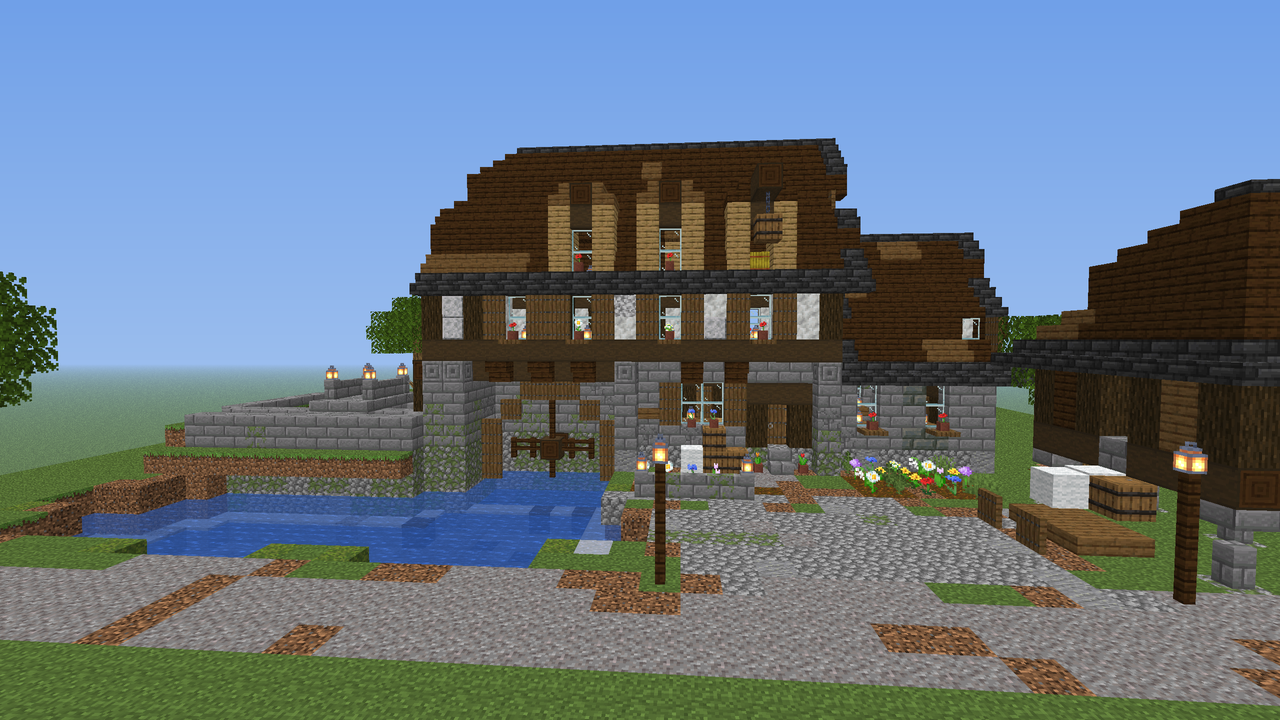
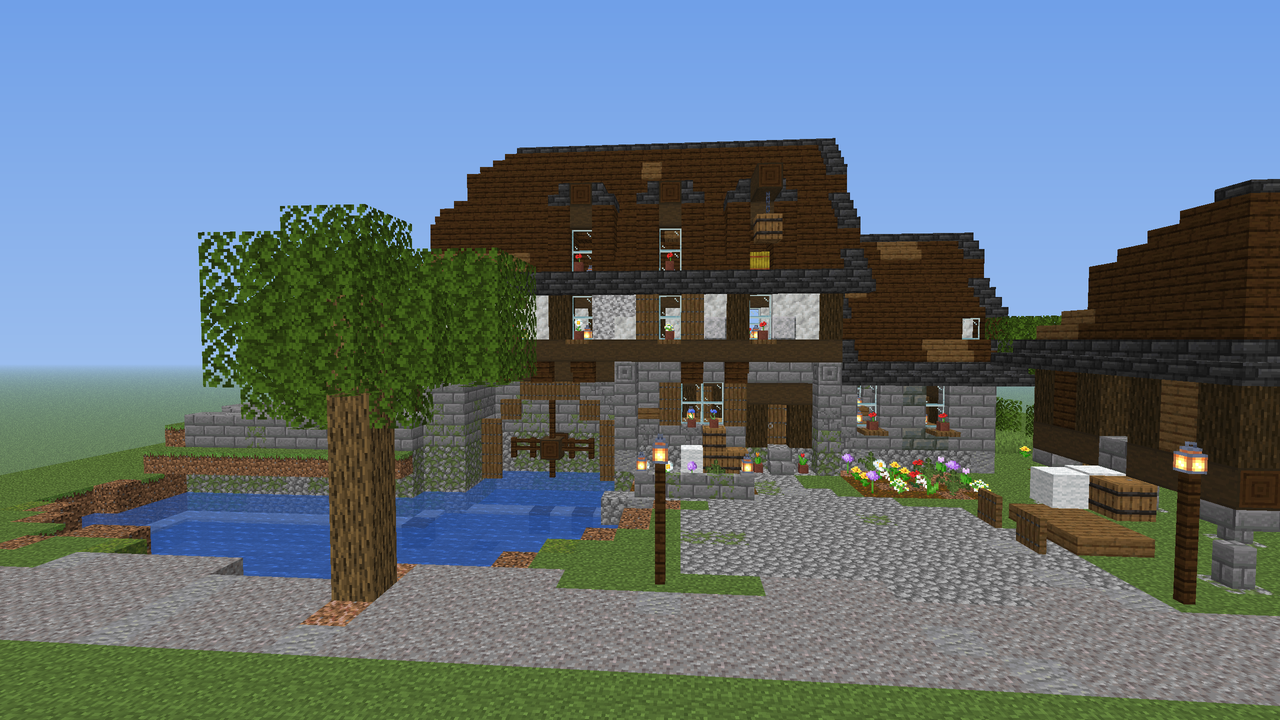
Mill review round 1: broad pond, calm facade, dark dormers
One organic pond under the wheel, head race runs to the east wall, plaster upper floor with few shutters, dormers in the roof palette, one ground material per zone, meadow, hedges, orchard, vines; L-F8 stair share ignores scenery.

diff --git a/design/scripts/house_mill.py b/design/scripts/house_mill.py
@@ -44,8 +44,8 @@ PLINTH = Ramp(P("cobblestone"), [(P("mossy_cobblestone"), .27, "low"), (P("andes
 PLASTER = Ramp(P("calcite"), [(P("diorite"), .18, None), (P("polished_diorite"), .12, "low")], seed=5, height=3, y0=5)
 ROOF = Ramp("dark_oak", [("spruce", .13, None)], seed=8, height=14, y0=8)
 FLOOR = Ramp(P("spruce_planks"), [(P("oak_planks"), .22, None), (P("dark_oak_planks"), .15, None)], seed=9)
-COBBLE = Ramp(P("cobblestone"), [(P("mossy_cobblestone"), .2, None), (P("andesite"), .17, None), (P("gravel"), .08, None)], seed=31)
-GRAVEL = Ramp(P("gravel"), [(P("coarse_dirt"), .18, None)], seed=22)
+COBBLE = Ramp(P("cobblestone"), [(P("mossy_cobblestone"), .16, None), (P("andesite"), .14, None)], seed=31)
+GRAVEL = Ramp(P("gravel"), [(P("andesite"), .12, None)], seed=22)
 PATH = Ramp(P("coarse_dirt"), [(P("gravel"), .3, None), (P("podzol[snowy=false]"), .12, None)], seed=33)
 BANK = Ramp(P("coarse_dirt"), [(P("moss_block"), .3, None), (P("clay"), .15, None), (P("gravel"), .1, None)], seed=34)
 BED = Ramp(P("clay"), [(P("gravel"), .3, None), (P("mud"), .2, None)], seed=35)
@@ -88,25 +88,28 @@ def wobble(n: int, lo: int, hi: int, rng, run=(3, 5)) -> list:
 
 
 def pond_cells(b: Build) -> set:
-    """Pond A: x 25..44, z 4..14 against the hall (x 25..33 down to z 14) and z 4..12 east of it; wobbling N/W/E shores."""
-    rng = b.rng
+    """Pond A: one broad organic pond (an ellipse with noisy shore) from the retaining wall under the wheel out to the east
+    edge, x 23..44, z 4..14 (z <= 12 east of the hall)."""
+    import numpy as np
+    from scipy.ndimage import gaussian_filter
+    noise = gaussian_filter(np.random.default_rng(12).standard_normal((60, 40)), 1.6)
+    noise = (noise - noise.mean()) / noise.std()
     cells = set()
-    north = wobble(21, 0, 2, rng)
-    for i, x in enumerate(range(23, 44)):
-        zs = 15 if x <= 33 else 13
-        for z in range(4 + north[i], zs):
+    for x in range(23, 45):
+        for z in range(3, 15):
+            if x >= 34 and z > 12:
+                continue
+            d = ((x - 34.0) / 12.2) ** 2 + ((z - 10.4) / 7.4) ** 2
+            if x <= 33 and z >= 11:
+                d = min(d, 0.5)                                    # the part against the hall wall: always water
+            if d + 0.28 * noise[x, z] < 1.0:
+                cells.add((x, z))
+    for x in range(25, 34):
+        for z in range(11, 15):
             cells.add((x, z))
-    west = wobble(11, 0, 2, rng)
-    for i, z in enumerate(range(4, 15)):
-        for x in range(23, 23 + west[i] if z < 12 else 25):
-            cells.discard((x, z))
-    east = wobble(9, 0, 2, rng)
-    for i, z in enumerate(range(4, 13)):
-        for x in range(45 - east[i], 46):
-            cells.discard((x, z))
-    cells = {(x, z) for (x, z) in cells if x <= 44 or z in (8, 9)}
     for z in (8, 9):                                              # the tail race leaves through the east edge
-        cells.add((44, z)); cells.add((45, z))
+        for x in range(40, 46):
+            cells.add((x, z))
     return cells
 
 
@@ -123,7 +126,7 @@ def build():
 
     # ================= pond A =================
     pond = pond_cells(b)
-    K.pond(b, pond, y_surface=-2, y_bed=-4, bed=BED, rim=BANK, lily=0.07)
+    K.pond(b, pond, y_surface=-2, y_bed=-4, bed=BED, rim=BANK, lily=0.14)
     for (x, z) in pond:
         put(x, -1, z, AIR)
     for (x, z) in pond:                                          # a muddy shore ring of the bank cells
@@ -217,10 +220,8 @@ def build():
         put(19, y, 15, lg(BEAM, "y")) if y == 2 else None
     # north upper windows and the hoist hatch above window 1
     for i, x in enumerate((18, 22, 26)):
-        window(WNU, x, 6, height=2, shutters="spruce", box=("potted_poppy", "potted_azure_bluet", "potted_oxeye_daisy")[i],
+        window(WNU, x, 6, height=2, shutters="spruce" if x == 22 else None, box=("potted_poppy", "potted_azure_bluet", "potted_oxeye_daisy")[i],
                sill="spruce")
-    for x in (21, 25, 29):                                                     # upper braces
-        put(x, 7, ZU0 + 0, P("dark_oak_planks")) if (x, 7, ZU0) not in b.g or True else None
 
     # ================= hall roof (steep, half-hip at the east end) =================
     roof_field = lambda x, y, z: ROOF.pick(x, y, z)                            # noqa: E731
@@ -233,11 +234,11 @@ def build():
     n.volumes.append({"name": "hall", "footprint": (X0, ZU0, X1, ZU1), "top": roof["ridge_y"] + 1})
 
     # ---- dormers and the hoist gablet on the north slope
-    oak = lambda x, y, z: P("oak_planks")                                    # noqa: E731
-    K.dormer(b, roof, WNU, 18, 0, 9, wall_mat=oak, trim=BEAM, roof_mat="dark_oak",
+    oak = lambda x, y, z: P("dark_oak_planks")                               # noqa: E731
+    K.dormer(b, roof, WNU, 18, 0, 9, wall_mat=oak, trim=BEAM, roof_mat="deepslate_tile",
              name="hoist", beam=True, hatch=True, h=3)
     for uc in (22, 26):
-        K.dormer(b, roof, WNU, uc, 0, 9, wall_mat=oak, trim=BEAM, roof_mat="spruce",
+        K.dormer(b, roof, WNU, uc, 0, 9, wall_mat=oak, trim=BEAM, roof_mat="deepslate_tile",
                  name=f"dormer{uc}", h=3)
 
     return b, roof, slot, pond
@@ -264,15 +265,15 @@ def rest(b: Build, roof: dict, slot: dict, pond: set) -> dict:
     for x in (24, 28):
         window(WSG, x, 2, height=2, shutters="spruce", box="potted_azure_bluet", sill="spruce") if x == 24 else None
     for i, x in enumerate((17, 21, 25, 29)):
-        window(WSG, x, 6, height=2, shutters="spruce", box=("potted_poppy", "potted_cornflower", "potted_oxeye_daisy",
+        window(WSG, x, 6, height=2, shutters="spruce" if x == 25 else None, box=("potted_poppy", "potted_cornflower", "potted_oxeye_daisy",
                                                                 "potted_azure_bluet")[i], sill="spruce")
     for x in (29,):
-        window(Wall(b, "north", "east", (0, ZU0)), x, 6, height=2, shutters="spruce", box="potted_poppy", sill="spruce")
+        window(Wall(b, "north", "east", (0, ZU0)), x, 6, height=2, shutters=None, box="potted_poppy", sill="spruce")
     window(WEG, 21, 2, height=2, shutters="spruce", box="potted_cornflower", sill="spruce")
-    window(WEG, 19, 6, height=2, shutters="spruce", box="potted_poppy", sill="spruce")
-    window(WEG, 19, 10, height=1, shutters="spruce", box="potted_azure_bluet", sill="spruce")
+    window(WEG, 19, 6, height=2, shutters=None, box="potted_poppy", sill="spruce")
+    window(WEG, 19, 10, height=1, shutters=None, box="potted_azure_bluet", sill="spruce")
     for z in (17, 21):                                                  # west gable windows above the wing roof
-        window(WWG, z, 11, height=2, shutters="spruce", box="potted_oxeye_daisy", sill="spruce")
+        window(WWG, z, 11, height=2, shutters=None, box="potted_oxeye_daisy", sill="spruce")
     for y in range(9, 15):                                              # king post
         if b.get(X0, y, 19) is not None and "plaster" not in b.block(X0, y, 19) and b.block(X0, y, 19) != "air":
             put(X0, y, 19, lg(BEAM, "y"))
@@ -281,16 +282,8 @@ def rest(b: Build, roof: dict, slot: dict, pond: set) -> dict:
     # ---- sluice tunnel through the east pier, channel, pond B, gate, bridge
     put(32, 0, 16, td_gate("west")); put(32, 0, 17, td_gate("west"))
     put(32, 1, 16, "@iron_bars"); put(32, 1, 17, "@iron_bars")
-    chan = [(x, z) for x in range(33, 40) for z in (16, 17)]
-    ponds = set()
-    wob = wobble(7, 0, 1, rng)
-    for i, z in enumerate(range(16, 23)):
-        for x in range(40 + (wob[i] if z not in (16, 17) else 0), 45):
-            ponds.add((x, z))
-    water = K.mill_race(b, chan + sorted(ponds), 0, -1, ramp=BASE, coping="stone_brick", coping_y=2)
-    for (x, z) in ponds:
-        if rng.random() < .1 and b.get(x, 1, z) is None:
-            put(x, 1, z, P("lily_pad"))
+    chan = [(x, z) for x in range(33, 45) for z in (16, 17)]
+    water = K.mill_race(b, chan, 0, -1, ramp=BASE, coping="stone_brick", coping_y=2)
     for z in (15, 18):
         put(34, 2, z, lg(BEAM, "y")); put(34, 3, z, lg(BEAM, "y"))
     for z in (15, 16, 17, 18):
@@ -329,7 +322,7 @@ def rest(b: Build, roof: dict, slot: dict, pond: set) -> dict:
     for y in range(5, 10):
         if b.block(WX0, y, 19) != "air":
             put(WX0, y, 19, lg(BEAM, "y"))
-    window(WWW, 16, 5, height=2, shutters="spruce", box="potted_cornflower", sill="spruce")
+    window(WWW, 16, 5, height=2, shutters=None, box="potted_cornflower", sill="spruce")
     n.volumes.append({"name": "wing", "footprint": (WX0, WZ0 - 1, WX1, WZ1 + 1), "top": wing["ridge_y"] + 1})
 
     # ================= sack shed (lean-to) on the south wall =================
@@ -360,7 +353,7 @@ def rest(b: Build, roof: dict, slot: dict, pond: set) -> dict:
     put(28, 3, 26, B.lantern(True))
     n.volumes.append({"name": "shed", "footprint": (25, 25, 31, 27), "top": 6})
     n.breaks.append({"name": "shed", "cell": (28, 4, 26)})
-    K.dormer(b, roof, WSU, 21, 0, 9, wall_mat=lambda x, y, z: P("oak_planks"), trim=BEAM, roof_mat="spruce", name="dormer_s", h=3)
+    K.dormer(b, roof, WSU, 21, 0, 9, wall_mat=lambda x, y, z: P("dark_oak_planks"), trim=BEAM, roof_mat="deepslate_tile", name="dormer_s", h=3)
 
     # ================= staddle granary (NW) with pyramid roof =================
     GX0, GX1 = ML.GRANARY_X
@@ -424,14 +417,7 @@ def scenery(b: Build, pond: set) -> None:
         o = (0, 0, 1, 1, 0)[z - 10]
         for x in range(16 + o, 19 + o):
             pathc.add((x, z))
-    S.ground(b, pathc - yard, PATH)
-    # fringe of coarse dirt where cobble meets the lawn
-    for (x, z) in sorted(yard):
-        for dx, dz in ((1, 0), (-1, 0), (0, 1), (0, -1)):
-            q = (x + dx, z + dz)
-            if q not in yard and q not in road and q not in pathc and b.get(q[0], -1, q[1]) is not None \
-                    and "grass" in b.get(q[0], -1, q[1]) and rng.random() < .35 and 0 <= q[1] < SZ:
-                put(q[0], -1, q[1], P("coarse_dirt"))
+    S.ground(b, pathc - yard, COBBLE)
     # --- flower beds beside the path, under the windows
     S.flower_bed(b, {(x, z) for x in range(10, 15) for z in range(11, 15)} - pathc, density=.7)
     S.flower_bed(b, {(x, z) for x in range(19, 24) for z in range(11, 13)} - pathc, density=.7)
@@ -450,7 +436,7 @@ def scenery(b: Build, pond: set) -> None:
     put(9, 1, 7, P("white_wool")); put(10, 1, 7, P("white_wool")); put(9, 2, 7, P("white_carpet"))
     put(9, 1, 6, B.barrel())
     S.crates(b, [(19, 0, 14), (20, 0, 14), (20, 1, 14)], sacks=[(21, 0, 14)])
-    S.apron(b, 18, 13, 22, 14, PATH, force=True)
+    S.apron(b, 18, 13, 22, 14, COBBLE, force=True)
     # --- back garden and woodpile (south), garden steps
     S.veg_plot(b, 9, 28, 7, 5, ["wheat", "carrots", "potatoes"])
     S.woodpile(b, 18, 28, axis="x", length=5)
@@ -459,12 +445,39 @@ def scenery(b: Build, pond: set) -> None:
     S.tree(b, 4, 15, kind="oak", height=5, spread=2.6, y0=0)
     S.tree(b, 3, 28, kind="birch", height=6, spread=2.4, y0=0)
     S.tree(b, 41, 28, kind="oak", height=5, spread=2.7, y0=2)
-    S.tree(b, 43, 3, kind="oak", height=6, spread=3.0, y0=0)
+    S.tree(b, 29, 2, kind="oak", height=6, spread=3.0, y0=0)
     S.tree(b, 7, 31, kind="oak", height=5, spread=2.5, y0=0)
-    # --- hedges (gaps every 5-6 cells) along the south and west edge
-    for x in list(range(16, 24)) + list(range(30, 40)):
-        if x % 7 not in (3,):
-            put(x, 0, 34, B.leaves("oak")); put(x, 1, 34, B.leaves("oak")) if x % 3 else None
+    # --- meadow tufts and flowers in clusters on the empty lawn (cells with two or more neighbours only)
+    import numpy as np
+    from scipy.ndimage import gaussian_filter
+    field = gaussian_filter(np.random.default_rng(77).standard_normal((SX + 4, SZ + 4)), 1.8)
+    field = (field - field.mean()) / field.std()
+    taken = {(x, z) for (x, y, z) in b.g if y >= 0}
+    ground_ok = lambda x, z: (x, -1, z) in b.g and "grass_block" in b.g[(x, -1, z)] and (x, 0, z) not in b.g  # noqa: E731
+    tufts = {}
+    for x in range(1, SX - 1):
+        for z in range(3, SZ - 1):
+            if ground_ok(x, z) and not (11 <= x <= 22 and z <= 14) and field[x, z] > 0.55 and (x, z) not in taken:
+                tufts[(x, z)] = rng.random()
+    for (x, z), r in sorted(tufts.items()):
+        nb = sum(1 for dx in (-1, 0, 1) for dz in (-1, 0, 1) if (dx, dz) != (0, 0) and (x + dx, z + dz) in tufts)
+        if nb >= 3:
+            put(x, 0, z, P("short_grass" if r < .6 else ("fern" if r < .7 else
+                           ("dandelion", "cornflower", "oxeye_daisy", "poppy", "azure_bluet")[int(r * 50) % 5])))
+    # --- hedges along the box edge: segments of at most 6 with 2-3 cell gaps
+    for (x0, x1, z) in ((1, 6, 34), (9, 14, 34), (17, 22, 34), (25, 30, 34), (33, 38, 34), (41, 44, 34)):
+        for x in range(x0, x1 + 1):
+            put(x, 0, z, B.leaves("oak")); put(x, 1, z, B.leaves("oak")) if (x + x0) % 3 else None
+    for (z0, z1) in ((18, 23), (26, 31)):
+        for z in range(z0, z1 + 1):
+            put(0, 0, z, B.leaves("oak")); put(0, 1, z, B.leaves("oak")) if z % 3 else None
+    # --- orchard on the terrace (quincunx), willow-like vines on the pond tree
+    for (x, z) in K.orchard_grid(37, 25, 44, 31, 7, 0, seed=4):
+        if 36 <= x <= 44 and 22 <= z <= 31 and (x, 2, z) not in b.g:
+            S.tree(b, x, z, kind="oak", height=4, spread=1.8, y0=2)
+    for (x, y, z), d in sorted(b.g.items()):
+        if B.block_id(d) == "oak_leaves" and 24 <= x <= 35 and z <= 8 and y >= 3 and b.get(x, y - 1, z) is None and rng.random() < .5:
+            put(x, y - 1, z, B.vine("up"))
     n.front_yard = {"rect": (11, 3, 21, 9), "corridor": (16, 18), "max_y": 1}
     n.ground_region = (-1, -1, SX, SZ)
 

diff --git a/design/scripts/lib/farm_lint.py b/design/scripts/lib/farm_lint.py
@@ -245,7 +245,10 @@ def lf8_contrast(g: dict, notes: Notes) -> list[str]:
             la, lb = _ramp_lum(g, r[a]), _ramp_lum(g, r[b])
             if la is not None and lb is not None and abs(la - lb) < need:
                 errs.append(f"L-F8 contrast: {label} differ by only {abs(la - lb):.0f} luminance (need {need:.0f})")
-    solid = [bid(d) for (x, y, z), d in g.items() if y >= 0 and bid(d) not in ("air", "water")]
+    scenery = ("leaves", "grass", "dirt", "vine", "fern", "mud", "clay", "moss", "lily", "flower", "tulip", "poppy", "dandelion",
+               "cornflower", "daisy", "azure", "farmland", "wheat", "carrots", "potatoes", "gravel", "path")
+    solid = [bid(d) for (x, y, z), d in g.items() if y >= 0 and bid(d) != "air" and bid(d) != "water"
+             and not any(w in bid(d) for w in scenery)]
     stairs = sum(1 for b in solid if b.endswith("_stairs"))
     if solid and stairs / len(solid) < STAIR_SHARE_MIN:
         errs.append(f"L-F8 stairs: {stairs / len(solid):.0%} of the blocks are stairs, need {STAIR_SHARE_MIN:.0%}")
